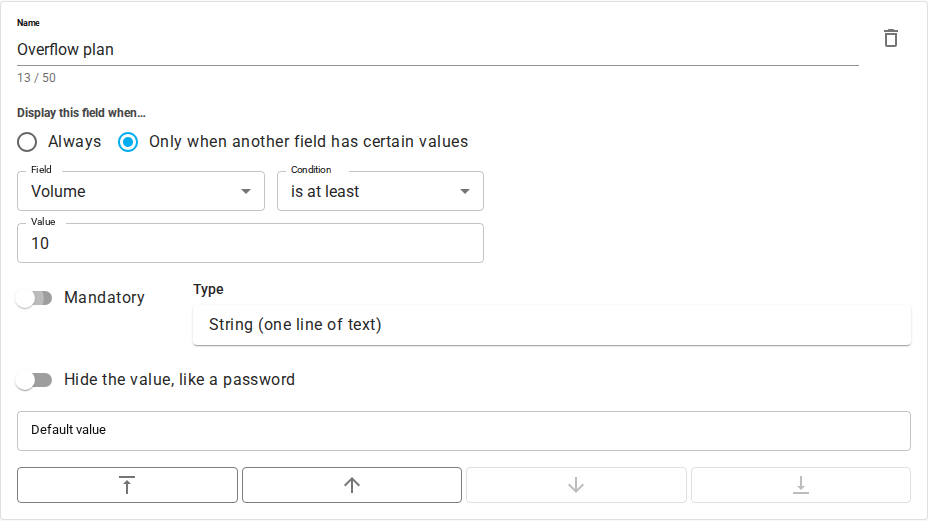
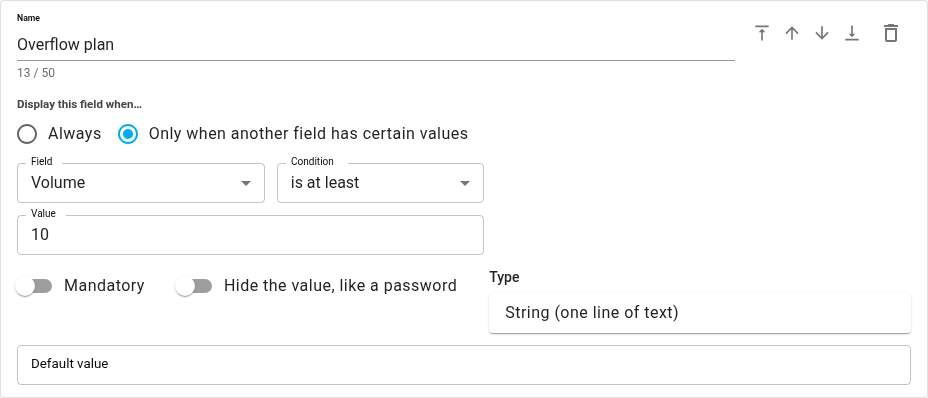
RSDEV-1710: Retake the editor screenshots in the compact layout and show unavailable fields in the guide

diff --git a/DevDocs/public/ConditionalFieldDisplay.md b/DevDocs/public/ConditionalFieldDisplay.md
@@ -104,6 +104,8 @@ To give a field a rule:
    - Unavailable - CL3 approval depends on this field, so reading it would make a loop: the
      field's own rule already reads this field, directly or through other fields.
 
+   ![The Field list of the Overflow plan field in the ELN form editor: Sample ID and Volume can be chosen, and Secret and Description are greyed out with the reasons "Unavailable - Secret hides its value, like a password" and "Unavailable - Description has unsupported type "Text (formatted text)""](images/conditional-field-display/form-unavailable-fields.png)
+
    The first field that can be chosen is chosen for you.
 3. Choose the **Condition**. The list shows only the conditions that suit the chosen field. If
    you choose a field of another kind and the current condition does not suit it, the condition
